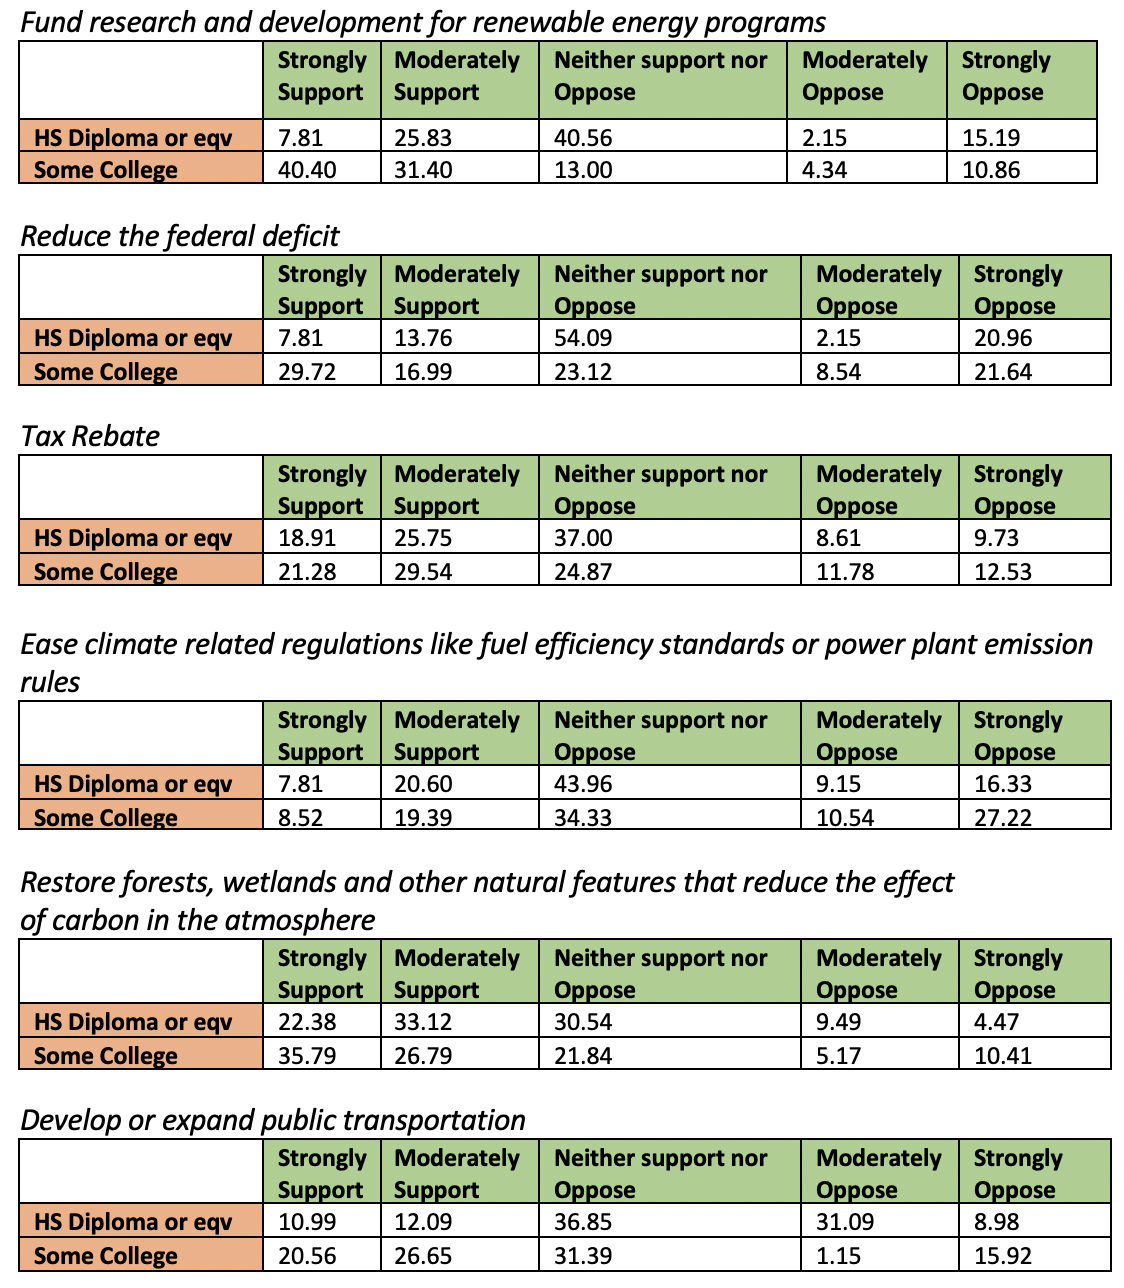
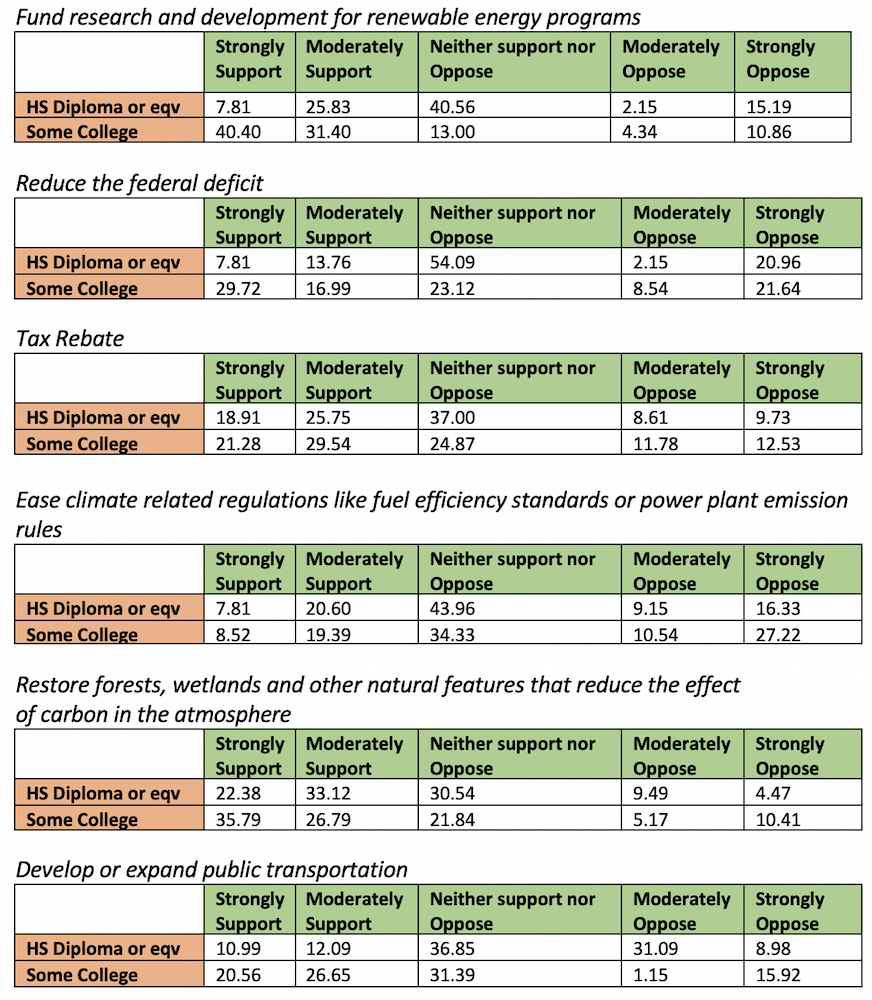
resize image

diff --git a/_posts/2020-04-07-five-new-boroughs-of-nyc.md b/_posts/2020-04-07-five-new-boroughs-of-nyc.md
@@ -28,7 +28,7 @@ While economic and housing indicators were correlated with the overall wellbeing
 
 To get a stronger sense of what is going on at a borough level, I filtered the data to look at all of the indicators stacked up on top of each other in the Bronx.
 
-<img src="{{ site.url }}{{ site.baseurl }}/images/bronxchange.png" height="75%" alt="bar graph bronx wellbeing indicators">
+<img src="{{ site.url }}{{ site.baseurl }}/images/bronxchange.png" alt="bar graph bronx wellbeing indicators">
 
 The NTAs are ordered by negative change to positive change since 2015. One interesting thing to note is that the Health domain has decreased in practically all of the NTAs since 2015. For the NTAs who experienced the most negative change, it appears that decreases in the Housing and Infrastructure domains are some of the biggest issues facing them. For the highest few NTAs, a combination of improvements in the Safety and Economic domains seem to propel them into a higher level of overall wellbeing.
 

diff --git a/_posts/2020-03-11-climate-change-messaging-in-battleground-states.md b/_posts/2020-03-11-climate-change-messaging-in-battleground-states.md
@@ -46,7 +46,7 @@ The next question summarizes varying support for ways to spend any tax revenue i
 
 Question: “Would you support, oppose or neither support nor oppose taxing the emissions of carbon-based fuels such as coal, oil, and natural gas if the tax revenue was used to:”
 
-<img src="{{ site.url }}{{ site.baseurl }}/images/cctable4.png" height="75%" alt="climate change reform support by revenue spending program">
+<img src="{{ site.url }}{{ site.baseurl }}/images/cctable4.png" alt="climate change reform support by revenue spending program">
 
 It turns out the the three most popular ideas (highest net support) for folks with high school or some college is:
 * Natural restoration
